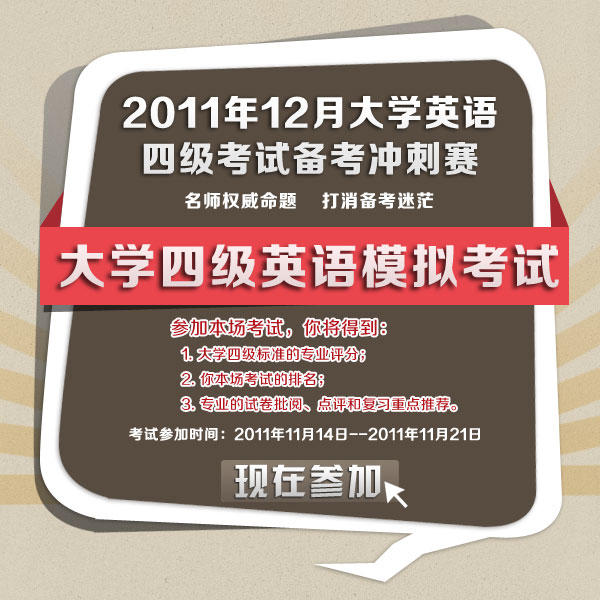
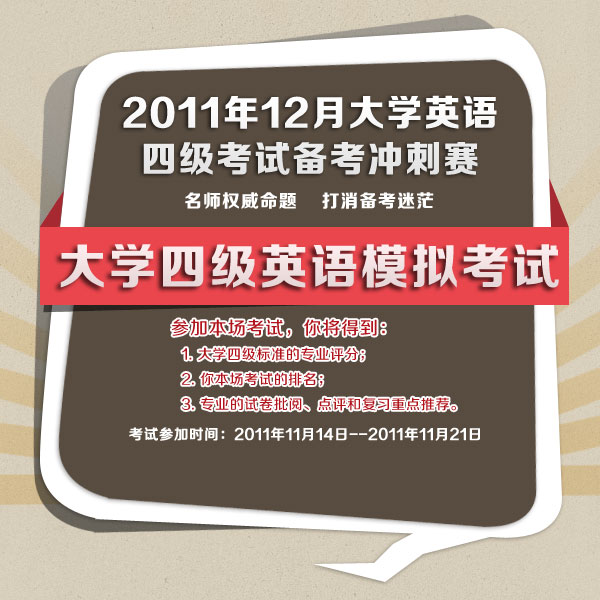
jeffrey

Changed region(s): [[0.36, 0.75, 0.69, 0.84]]

diff --git a/public/stylesheets/exercise.css b/public/stylesheets/exercise.css
@@ -1,15 +1,35 @@
 @charset "utf-8";
+* { padding: 0; margin: 0;}
+body { background:  #fffbec; font-family: "微软雅黑","宋体", Arial; font-size: 12px;}
+a { text-decoration: none;}
+ul { list-style: none;}
+img { border: none;}
+
+.clear { clear: both;}
 
 /*备考弹出层--------------------*/
-.beikao_box { width: 600px; height: 600px; top:50px; display: block;  position: absolute; z-index: 1000; background: url(/images/exercise/beikao.jpg) no-repeat;}
+.beikao_box { width: 600px; height: 600px; background: url(/images/exercise/beikao.jpg) no-repeat; position: absolute;  z-index: 1000;}
 .beikao_x { width: 21px; height: 21px; position: absolute; right: 10px; top: 10px;}
-.beikao_btn { width: 200px; height: 50px; position: absolute; top: 456px; left: 213px;}
+.beikao_btn { width: 200px; height: 50px; background: url(/images/exercise/nowAdd.jpg) no-repeat; position: absolute; top: 459px; left: 213px;}
 .beikao_btn a { width: 200px; height: 50px; display: block; overflow: hidden; text-indent: -999px;}
+
+.beikao_btn0 { width: 200px; height: 50px; background: url(/images/exercise/moveTo.jpg) no-repeat; position: absolute; top: 459px; left: 213px;}
+.beikao_btn0 a { width: 200px; height: 50px; display: block; overflow: hidden; text-indent: -999px;}
+
 .no_ts { width: 70px; position: absolute; top: 13px; right: 30px; color: #666;}
 
 
 /*大赛引导页*/
 
+/*.wrap { background: url(/images/exercise/_bg.gif) repeat-x;}
+.head {width: 960px; margin: 0 auto; height: 42px; line-height: 42px;}
+
+.logo { width: 128px; height:40px; padding-top: 1px; float: left; display: inline;}
+.top_loginArea { width: 325px; height: 42px; overflow: hidden; float: left; margin-left: 495px; _margin-left: 310px;}
+
+.top_qq { float: right; height: 42px;}*/
+
+.member_info { width: 200px;}
 .member_info a { color: #333; margin: 0 5px; display: inline-block; line-height: 44px;}
 .member_info a:hover {color: #A10000; text-decoration: underline;}
 .member_info a.signColor { color: #A10000;}
@@ -20,3 +40,45 @@
 .timer { width: 200px; position: absolute; top: 58px; left: 10px; font-size: 18px; text-align: center; color: #FFF;}
 .timer span { color: #FC0;}
 .bz_li { width: 533px; height: 66px; position: absolute; top: 11px; right: 82px;}
+
+.main { width: 960px; margin: 0 auto; padding-top: 40px;}
+.left { width: 662px; padding-bottom: 10px; border: 1px solid  #f1f1f1; border-right: none; background: #FFF; float: left;}
+.right { width: 297px; float: left; position: relative;}
+
+.left_box { width: 630px; margin: 10px auto; border: 1px #ece3bf solid; background: #fef6d6; position: relative;}
+.lb_icon { position: absolute; top: -17px; right: 20px;}
+
+.cz_img { width: 396px; height: 224px; background: url(/images/exercise/cz_img.png) no-repeat; margin: 10px auto;}
+.cz_a { width: 165px; height: 45px; position: absolute; top: 146px; right: 131px;}
+.cz_a a {width: 165px; height: 45px; display: block; text-indent: -999px;}
+
+.cz_text { width: 600px; margin: 10px auto; padding: 10px; border: 1px solid #bf8e1f; background: #ffdb8a;}
+.cz_text h2 { font-size: 16px; color: #333; height: 32px; line-height: 32px; padding-left: 50px;}
+.cz_text h3 { font-size: 14px; color: #333; height: 32px; font-weight:100; line-height: 32px; padding-left: 50px;}
+.cz_text p { font-size: 14px; color: #F00; height: 24px; line-height: 24px; padding-left: 70px;}
+
+.rr_login { width: 396px; height: 70px; margin: 10px auto; background: url(/images/exercise/renren_bg.jpg) no-repeat; }
+.rr_login_a { width: 127px; height: 37px; position: absolute; top: 28px; left: 377px;}
+.rr_login_a a { width: 127px; height: 37px; display: block; overflow: hidden; text-indent: -999px;}
+
+
+.r_top { width: 297px; height: 172px; background: url(/images/exercise/r_top.png) no-repeat; position: absolute; top: -37px;}
+.r_middle { width: 295px; height: 300px; padding-top: 30px; border:1px solid #e2e2e2; border-top: none; margin-top: 135px; background: #FFF;}
+.r_middle h2 { font-size: 16px; color: #b73128; height: 32px; line-height: 32px; padding-left: 30px; margin: 10px 0;}
+.r_middle div { padding-left: 50px; margin: 10px 0;}
+.r_middle div p { line-height: 24px;}
+
+.foot { width: 960px; margin: 10px auto;}
+.foot p { text-align: center; line-height: 32px; height: 32px; color: #999;}
+.foot p a { padding: 0 5px; color: #999; font-weight: 100;}
+
+
+.jies_box { padding: 10px;}
+.jies_box h2 { font-size: 16px; color: #b73128; line-height: 32px;}
+.jies_box p { font-size: 14px; color: #333; line-height: 24px;}
+.js_time { width: 580px; margin: 20px auto; border: 1px solid #bf8e1f; background: #ffdb8a; padding: 10px;}
+.js_time p { line-height: 24px;}
+.js_time p span {color: #b73128;}
+
+.addTo_btn { width: 184px; height: 55px; margin: 30px auto 10px auto;}
+.addTo_btn a { width: 184px; height: 55px; display: block; overflow: hidden; background: url(/images/exercise/addTo_btn.jpg) no-repeat; text-indent: -999px;}

diff --git a/public/javascripts/pileadd.js b/public/javascripts/pileadd.js
@@ -541,4 +541,13 @@ jQuery(function() {
     } 
 })
 
-
+function ajax_hide_exercise(params){
+        new Ajax.Updater("ajax_div", "/exam_lists/ajax_hide_exercise",
+    {
+        asynchronous:true,
+        evalScripts:true,
+        method:"post",
+        parameters:'control='+params+'&authenticity_token=' + encodeURIComponent('kfCK9k5+iRMgBOGm6vykZ4ekez8CB77n9iApbq0omBs=')
+    });
+    return false;
+}

diff --git a/public/stylesheets/exercise_head.css b/public/stylesheets/exercise_head.css
@@ -1,0 +1,7 @@
+.wrap { background: url(/images/exercise/_bg.gif) repeat-x;}
+.head {width: 960px; margin: 0 auto; height: 42px; line-height: 42px;}
+
+.logo { width: 128px; height:40px; padding-top: 1px; float: left; display: inline;}
+.top_loginArea { width: 325px; height: 42px; overflow: hidden; float: left; margin-left: 495px; _margin-left: 310px;}
+
+.top_qq { float: right; height: 42px;}

diff --git a/app/controllers/exam_lists_controller.rb b/app/controllers/exam_lists_controller.rb
@@ -189,4 +189,14 @@ class ExamListsController < ApplicationController
     render "/exam_lists/incorrect_list"
   end
 
+  #模拟考试宣传框，点击“不再显示”复选框触发
+  def ajax_hide_exercise    
+    if params['control']=="hide"
+      cookies[:hide_exercise]="hide"
+    else
+      cookies[:hide_exercise]="show"
+    end
+    render :inline=>""
+  end
+
 end

diff --git a/config/routes.rb b/config/routes.rb
@@ -16,7 +16,7 @@ Gankao::Application.routes.draw do
   resources :exam_lists do
     collection do
       post :show_problem,:next_problem,:compare_answer
-      post :feedback,:feedback_list
+      post :feedback,:feedback_list,:ajax_hide_exercise
       get :honoured_guest
     end
     member do
